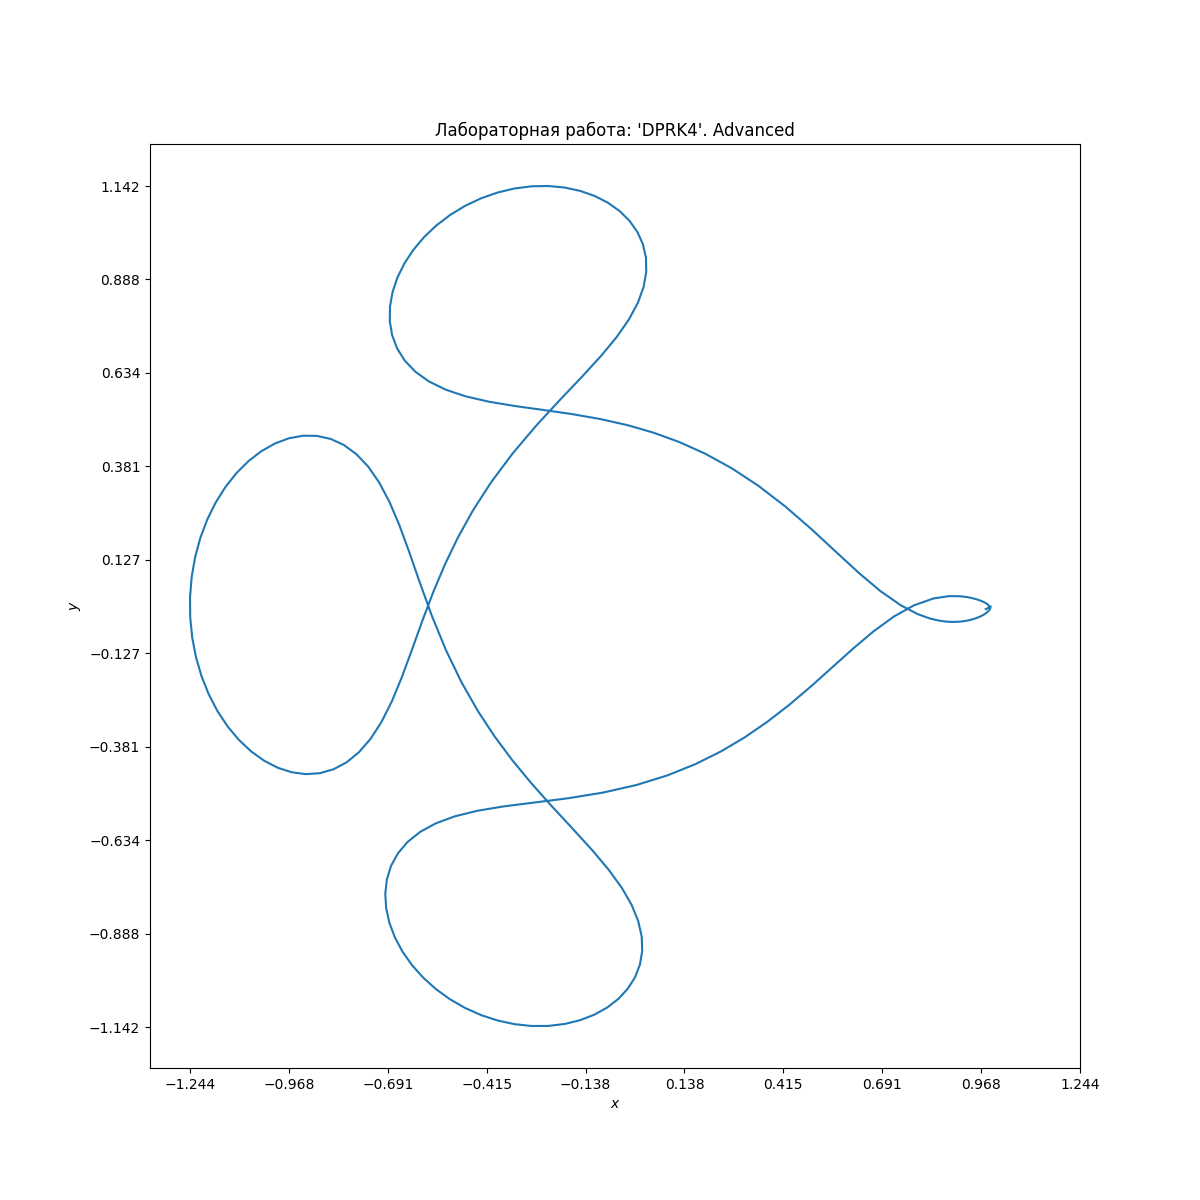
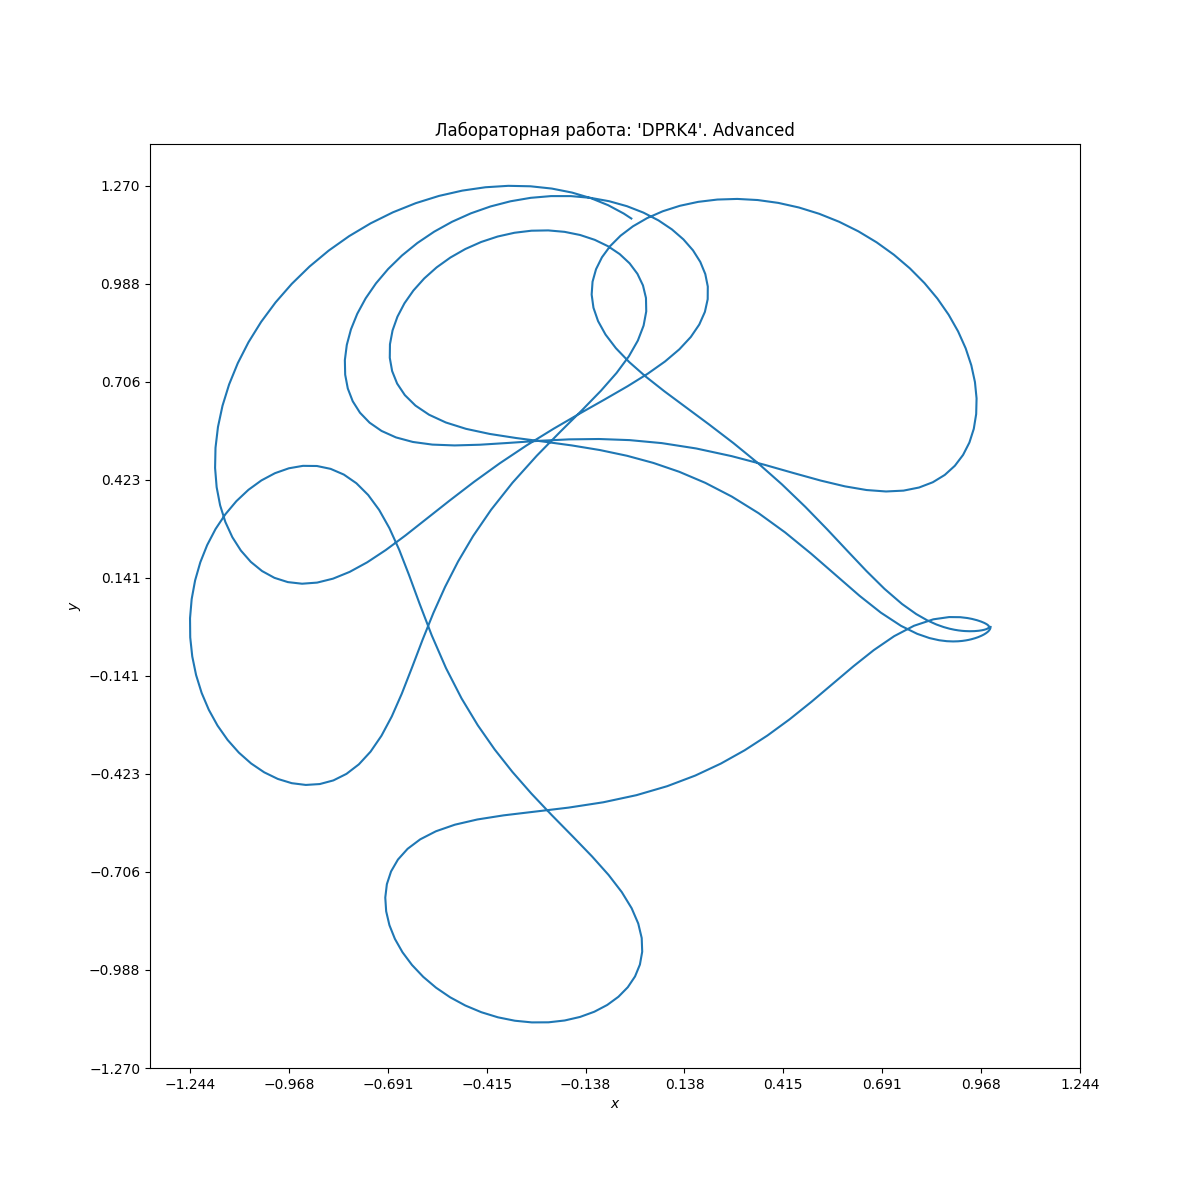
code cleanup

diff --git a/src/DPRK7(8).hpp b/src/DPRK7(8).hpp
@@ -1,4 +1,5 @@
 #pragma once
+#pragma once
 
 #include <array>
 #include <vector>
@@ -10,12 +11,12 @@ struct DP45{
     using vType = std::array<double, stages>;
     using rType = double;
     static constexpr std::array<vType , stages> table = {{{0., 0., 0., 0., 0., 0., 0.},
-                                                                             {1./5., 0., 0., 0., 0., 0., 0.},
-                                                                             {3./40., 9./40., 0., 0., 0., 0., 0.},
-                                                                             {44./45., -56./15., 32./9.,0., 0., 0., 0.},
-                                                                             {19372./6561., -25360./2187., 64448./6561., -212./729., 0., 0., 0.},
-                                                                             {9017./3168., -355./33., 46732./5247., 49./176., -5103./ 18656., 0., 0.},
-                                                                             {35./384., 0., 500./1113., 125./192., -2187./6784., 11./84., 0.}}};
+                                                          {1./5., 0., 0., 0., 0., 0., 0.},
+                                                          {3./40., 9./40., 0., 0., 0., 0., 0.},
+                                                          {44./45., -56./15., 32./9.,0., 0., 0., 0.},
+                                                          {19372./6561., -25360./2187., 64448./6561., -212./729., 0., 0., 0.},
+                                                          {9017./3168., -355./33., 46732./5247., 49./176., -5103./ 18656., 0., 0.},
+                                                          {35./384., 0., 500./1113., 125./192., -2187./6784., 11./84., 0.}}};
     static constexpr vType cColumn = {0., 1./5., 3./10., 4./5., 8./9., 1., 1.};
     static constexpr vType bString1 = {35./384., 0., 500./1113., 125./192., -2187./6784., 11./84., 0.};
     static constexpr vType bString2 = {5179./57600., 0., 7571./16695., 393./640., -92097./339200., 187./2100., 1./40.};
@@ -60,7 +61,7 @@ public:
                                           stateAndArg.state(0) + 2. * stateAndArg.state(3) - (1 - mu)*(stateAndArg.state(0) + mu)/D1 - mu*(stateAndArg.state(0) - (1-mu))/D2,
                                           stateAndArg.state(3),
                                           stateAndArg.state(2) - 2. * stateAndArg.state(1) - (1 - mu)*stateAndArg.state(2)/D1 - mu * stateAndArg.state(2)/D2
-                                          };
+        };
     }
 };
 
@@ -69,7 +70,9 @@ template<typename Table, typename RHS, typename fType, typename uType>
 std::pair<uType, uType> uzNextStep(const uType &uCurrent, const RHS &rhs, double step) {
     using rType = typename Table::rType;
     std::array<fType, Table::stages> k{};
-    for(auto& it: k) it = uCurrent.state;
+    for(std::size_t i = 0; i < Table::stages; i++){
+
+    }
     k[0] = rhs.calc(uCurrent);
     k[1] = rhs.calc({uCurrent.state + step * v2v<rType, fType, Table::stages>(Table::table[1], k), uCurrent.arg + step * Table::cColumn[1]});
     k[2] = rhs.calc({uCurrent.state + step * v2v<rType, fType, Table::stages>(Table::table[2], k), uCurrent.arg + step * Table::cColumn[2]});
@@ -77,6 +80,7 @@ std::pair<uType, uType> uzNextStep(const uType &uCurrent, const RHS &rhs, double
     k[4] = rhs.calc({uCurrent.state + step * v2v<rType, fType, Table::stages>(Table::table[4], k), uCurrent.arg + step * Table::cColumn[4]});
     k[5] = rhs.calc({uCurrent.state + step * v2v<rType, fType, Table::stages>(Table::table[5], k), uCurrent.arg + step * Table::cColumn[5]});
     k[6] = rhs.calc({uCurrent.state + step * v2v<rType, fType, Table::stages>(Table::table[6], k), uCurrent.arg + step * Table::cColumn[6]});
+    k[7] = rhs.calc({uCurrent.state + step * v2v<rType, fType, Table::stages>(Table::table[7], k), uCurrent.arg + step * Table::cColumn[7]});
     return {{uCurrent.state + step * v2v<rType, fType, Table::stages>(Table::bString1, k), uCurrent.arg + step},
             {uCurrent.state + step * v2v<rType, fType, Table::stages>(Table::bString2, k), uCurrent.arg + step}};
 }

diff --git a/tests/RungeKuttaTests.cpp b/tests/RungeKuttaTests.cpp
@@ -80,7 +80,7 @@ TEST(RungeKuttaTests, mainDPRKTest){
     sc.maxStep = 1e-1;
     sc.initialStep = 1e-4;
     sc.tolerance =1e-5;
-    double endTime = 17.06521656;
+    double endTime = 17.06521656 * 2;
     orbitAhrenstorf::StateAndArg initialState = {{0.994, 0, 0, -2.001585106}, 0.};
     auto result = integrate<DP45, orbitAhrenstorf>(initialState, endTime, sc, orbitAhrenstorf{});
     for(auto& it:result){

diff --git a/src/BDF4.hpp b/src/BDF4.hpp
@@ -1,0 +1,2 @@
+#pragma once
+
